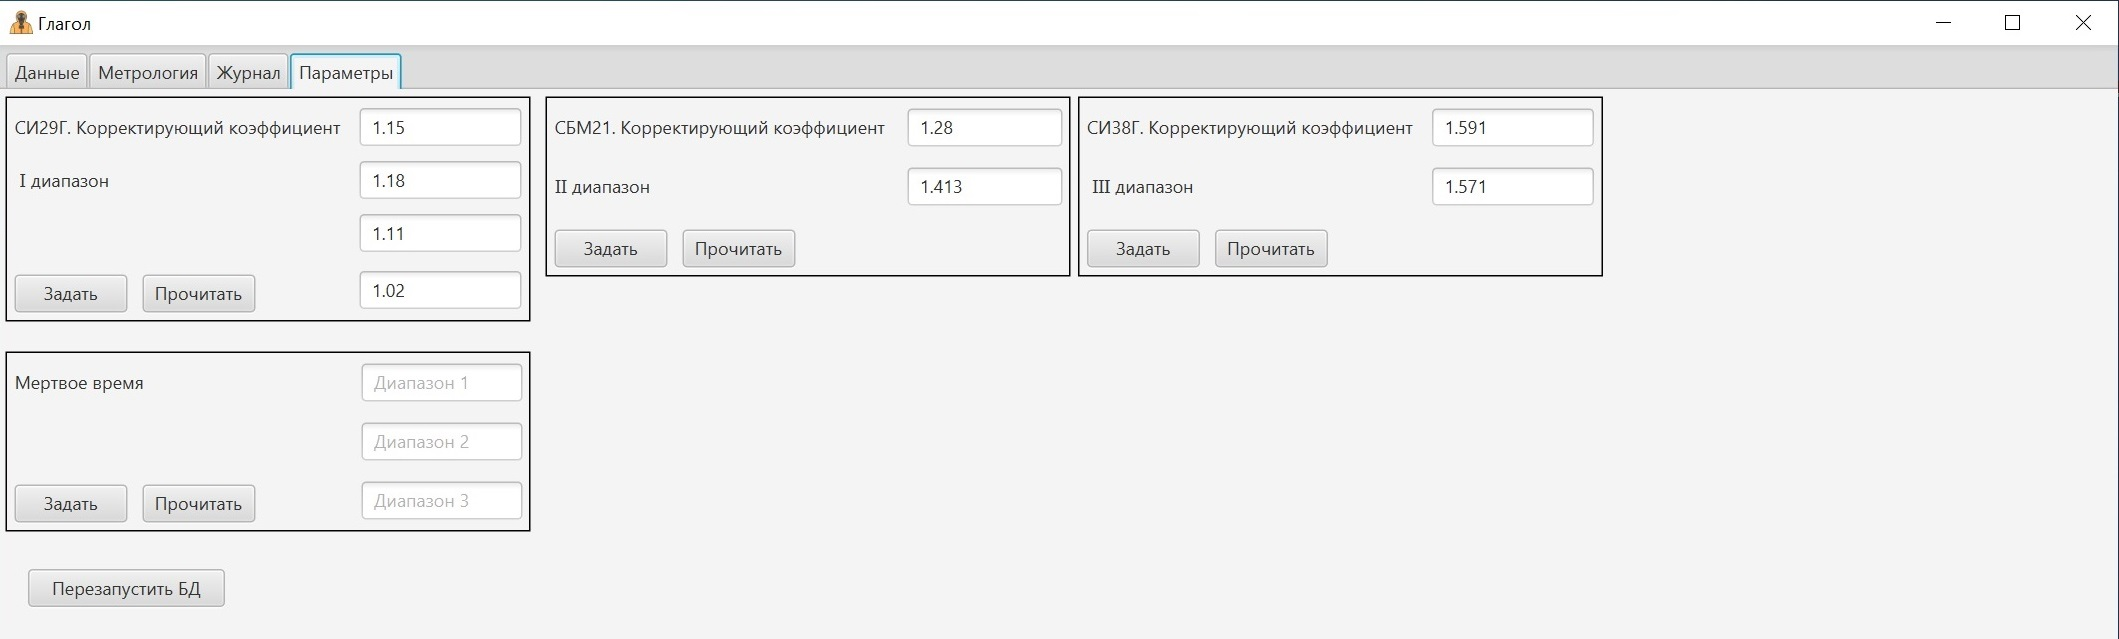
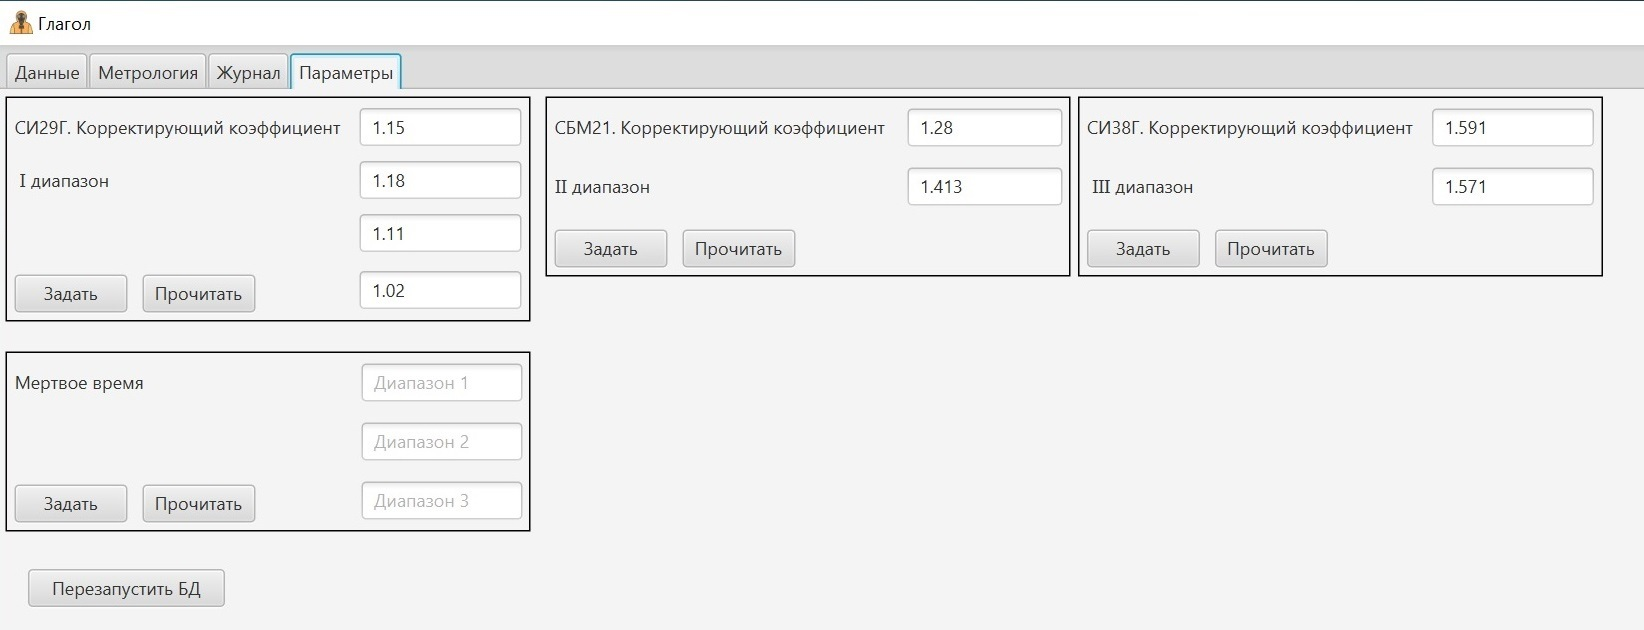
change README

diff --git a/README.md b/README.md
@@ -36,6 +36,8 @@ Desktop приложение для управления детектором р
 
 ![2.jpg](screenshots/2.jpg)
 
+![5.jpg](screenshots/5.jpg)
+
 ![3.jpg](screenshots/3.jpg)
 
 ![4.jpg](screenshots/4.jpg)
